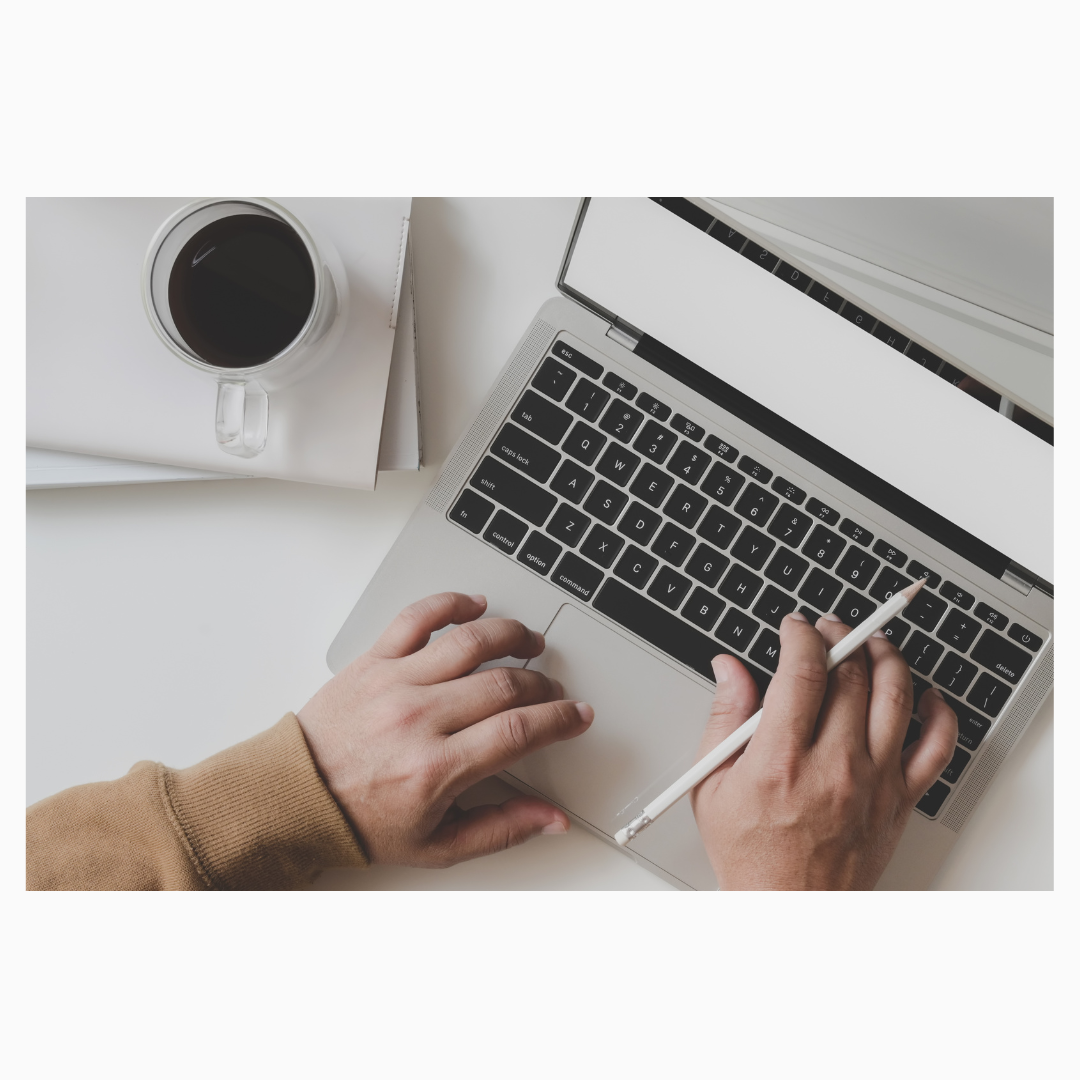
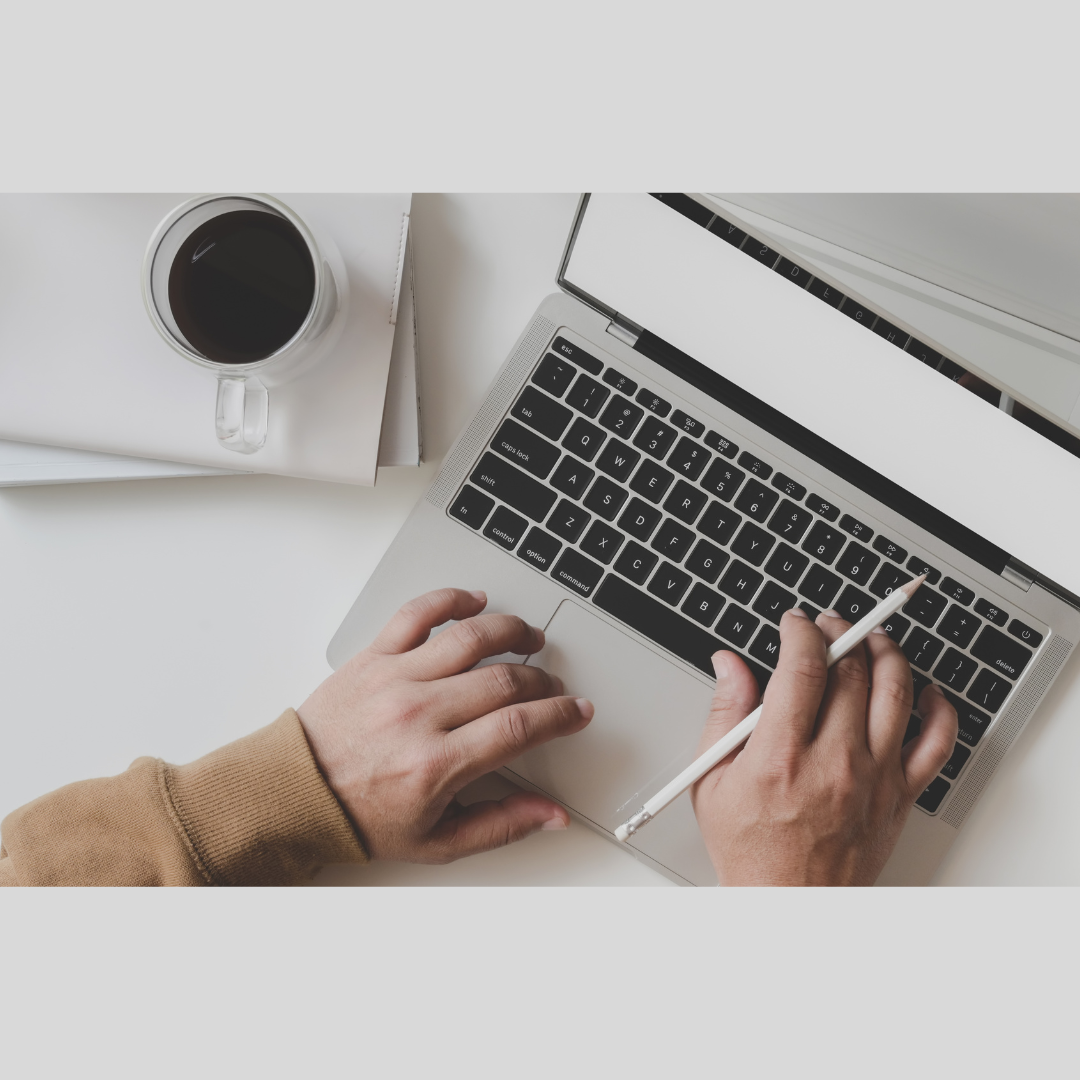
change image

diff --git a/assets/css/style.css b/assets/css/style.css
@@ -9,7 +9,7 @@ body{
     font-family:Montserrat, sans-serif;
     font-weight: 300px;
     color: black;
-    background-color: #fafafa;
+    background-color: lightgrey;
 }
 h1, h2{
     font-family: Lato, sans-serif;
